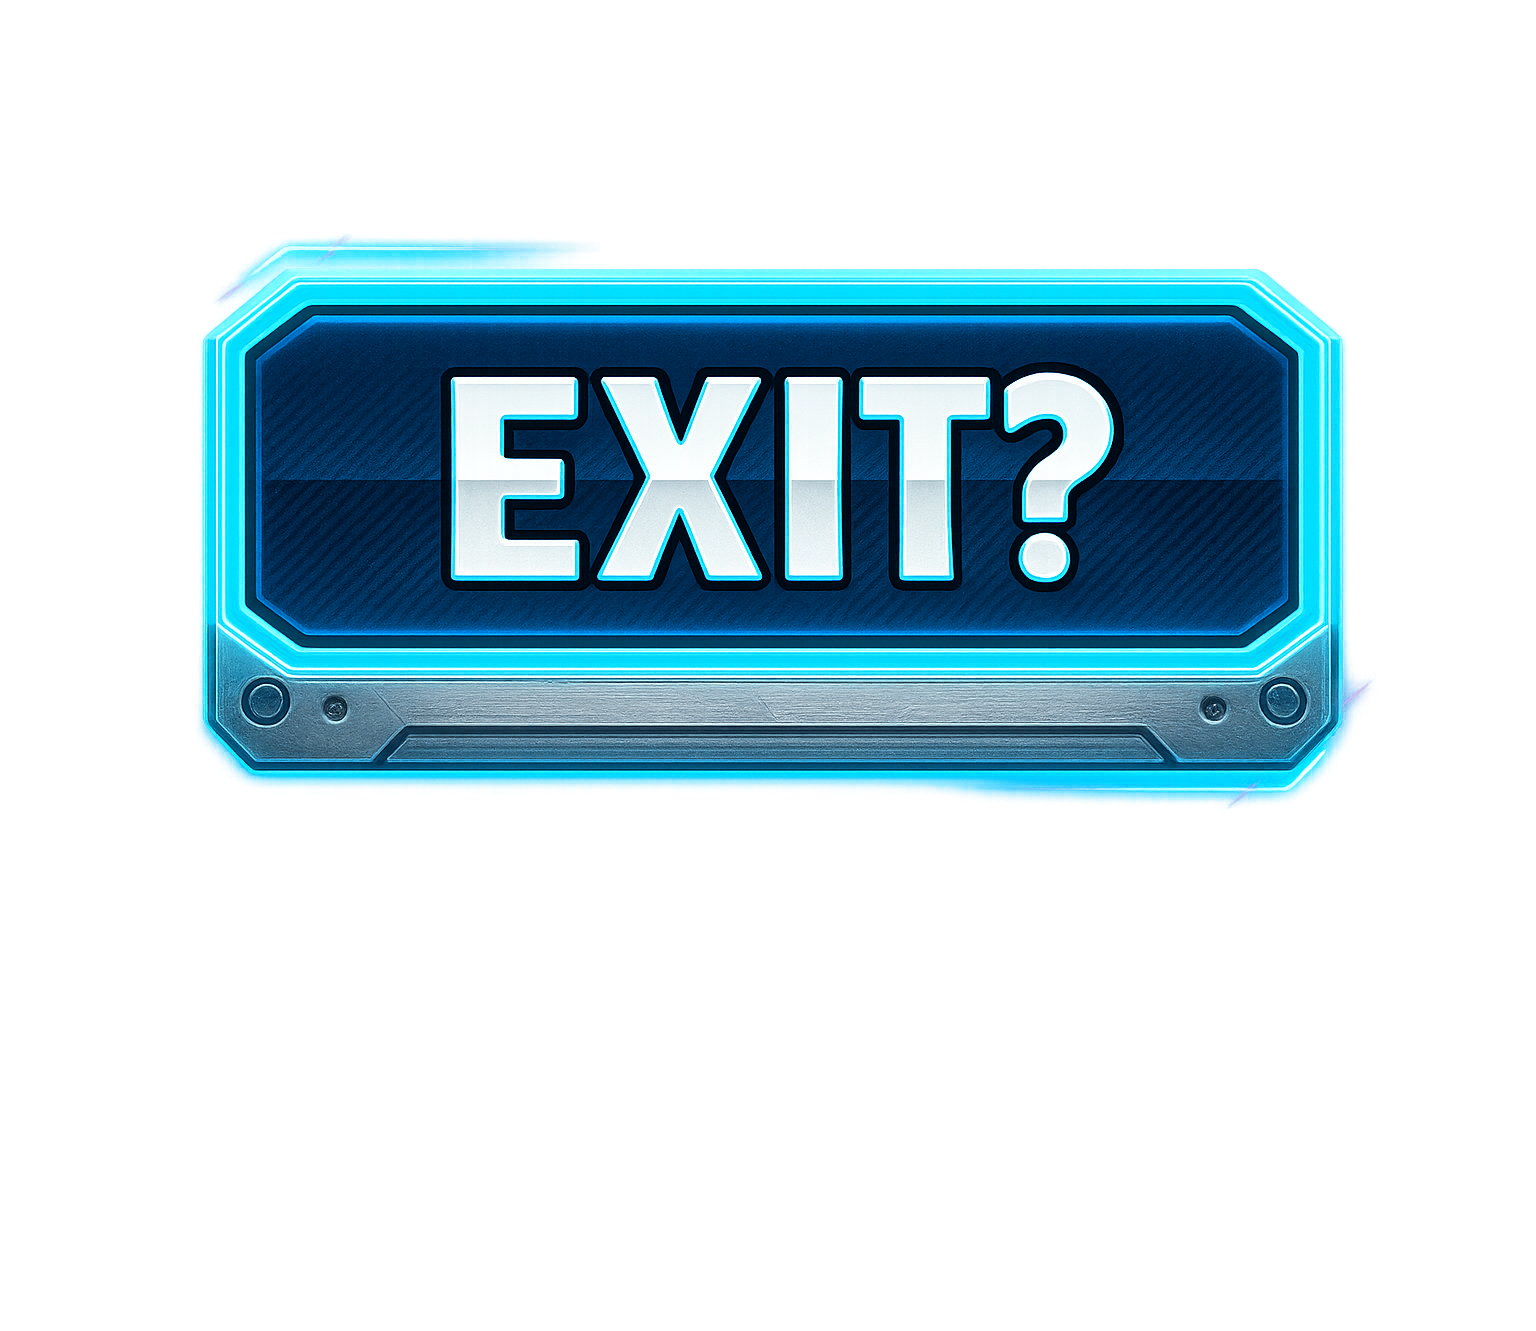
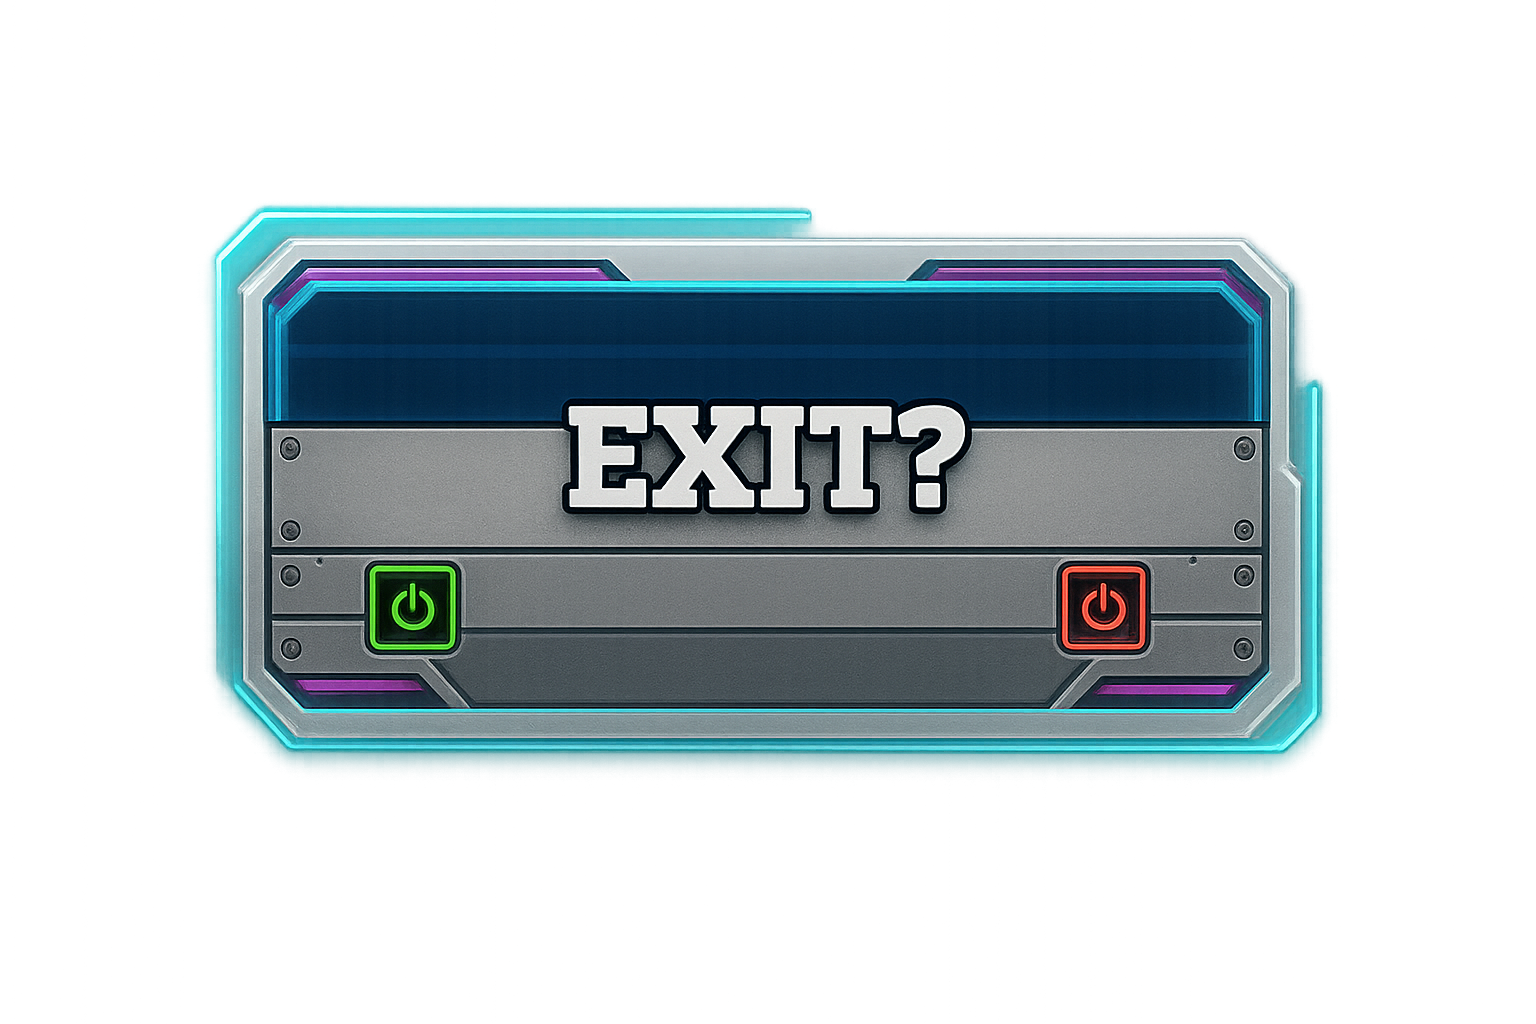
giao diện exit

diff --git a/src/main/java/com/nhom_4/arkanoid/ui/Menu.java b/src/main/java/com/nhom_4/arkanoid/ui/Menu.java
@@ -178,54 +178,55 @@ public class Menu {
         }
     }
 
-    /** Vẽ overlay Exit? với 2 nút YES / NO */
     private void drawExitConfirm(Graphics2D g, MouseInput mouseInput) {
         // nền mờ
         g.setColor(new Color(0, 0, 0, 160));
         g.fillRect(0, 0, Constants.WIDTH, Constants.HEIGHT);
 
-        int cw = Constants.WIDTH / 2;
-        int ch = Constants.HEIGHT / 2;
+        BufferedImage img = Assets.EXIT_DIALOG; // bạn đã load 900x600
+        if (img == null)
+            return; // nếu thiếu ảnh thì thôi
 
-        int panelW = 640;
-        int panelH = 300;
-        int px = cw - panelW / 2;
-        int py = ch - panelH / 2;
-        exitPanel.setBounds(px, py, panelW, panelH);
+        // === Vẽ THEO KÍCH THƯỚC ẢNH GỐC (không scale) ===
+        final int iw = img.getWidth(); // ví dụ 900
+        final int ih = img.getHeight(); // ví dụ 600
+        final int px = Constants.WIDTH / 2 - iw / 2;
+        final int py = Constants.HEIGHT / 2 - ih / 2;
+        g.drawImage(img, px, py, null);
 
-        // khung phong cách sci-fi đơn giản
-        g.setColor(new Color(6, 18, 34, 230));
-        g.fillRoundRect(px, py, panelW, panelH, 20, 20);
-        g.setStroke(new BasicStroke(4f));
-        g.setColor(new Color(0, 255, 255, 140));
-        g.drawRoundRect(px + 6, py + 6, panelW - 12, panelH - 12, 16, 16);
-        g.setFont(Assets.fontPixels_40 != null ? Assets.fontPixels_40.deriveFont(44f) : titleFont.deriveFont(44f));
-        FontMetrics fm = g.getFontMetrics();
-        String text = "EXIT?";
-        int tx = cw - fm.stringWidth(text) / 2;
-        int ty = py + 120 + (fm.getAscent() - fm.getDescent()) / 2;
-        // viền chữ (stroke)
-        g.setColor(Color.BLACK);
-        g.drawString(text, tx + 2, ty + 2);
-        g.setColor(Color.WHITE);
-        g.drawString(text, tx, ty);
-        // hai nút YES / NO
+        // vùng click tổng của panel
+        exitPanel.setBounds(px, py, iw, ih);
+
         Point mousePos = mouseInput.getPosition();
-        int by = py + panelH - 70;
-        int yesCx = cw - 110;
-        int noCx = cw + 110;
-
-        BufferedImage smallBtn = Assets.BUTTON_START;
 
         Rectangle rYes = Renderer.drawButtonInMenu(
-                g, smallBtn, "YES", yesCx, by,
-                Assets.fontPixels_40 != null ? Assets.fontPixels_40 : itemFont,
-                mousePos, 0.8f, 0.8f * 1.06f);
+                    g,
+                    Assets.BUTTON_SMALL,
+                    "YES",
+                    Constants.WIDTH / 2-110,
+                    Constants.HEIGHT/2+60,
+                    Assets.fontPixels_40 != null ? Assets.fontPixels_40 : titleFont,
+                    mousePos,
+                    1.00f,
+                    1.06f);
         Rectangle rNo = Renderer.drawButtonInMenu(
-                g, smallBtn, "NO", noCx, by,
-                Assets.fontPixels_40 != null ? Assets.fontPixels_40 : itemFont,
-                mousePos, 0.8f, 0.8f * 1.06f);
+                    g,
+                    Assets.BUTTON_SMALL,
+                    "NO",
+                    Constants.WIDTH / 2+100,
+                    Constants.HEIGHT/2+60,
+                    Assets.fontPixels_40 != null ? Assets.fontPixels_40 : titleFont,
+                    mousePos,
+                    1.00f,
+                    1.06f);
         yesBtn.setBounds(rYes);
         noBtn.setBounds(rNo);
+
+        // panel tổng + 2 nút (để click ra ngoài mới đóng)
+        Rectangle union = new Rectangle(px, py, iw, ih);
+        union.add(rYes);
+        union.add(rNo);
+        exitPanel.setBounds(union);
     }
+
 }

diff --git a/src/main/java/com/nhom_4/arkanoid/gfx/Assets.java b/src/main/java/com/nhom_4/arkanoid/gfx/Assets.java
@@ -7,6 +7,7 @@ import java.awt.Font;
 import java.awt.image.BufferedImage;
 
 public class Assets {
+    public static BufferedImage BUTTON_SMALL = null;
     public static BufferedImage EXIT_DIALOG;
     public static BufferedImage MENU_BG;
     public static BufferedImage PADDLE;
@@ -21,6 +22,8 @@ public class Assets {
         BUTTON_START = Files.loadImageCP("/resources/images/button_menu.png", 240, 120);
         BUTTON_HOW_TO_PLAY = Files.loadImageCP("/resources/images/button_menu.png", 460, 120);
         BUTTON_EXIT = Files.loadImageCP("/resources/images/button_menu.png", 200, 120);
+        BUTTON_SMALL=Files.loadImageCP("/resources/images/button_menu.png", 150, 90);
+        EXIT_DIALOG=Files.loadImageCP("/resources/images/exit.png", 900, 600);
         //load font chữ
         fontPixels_40 = Files.loadFont("/resources/fonts/font1.ttf", 0, 40);
         fontPixels_44 = Files.loadFont("/resources/fonts/font1.ttf", 0, 44);
